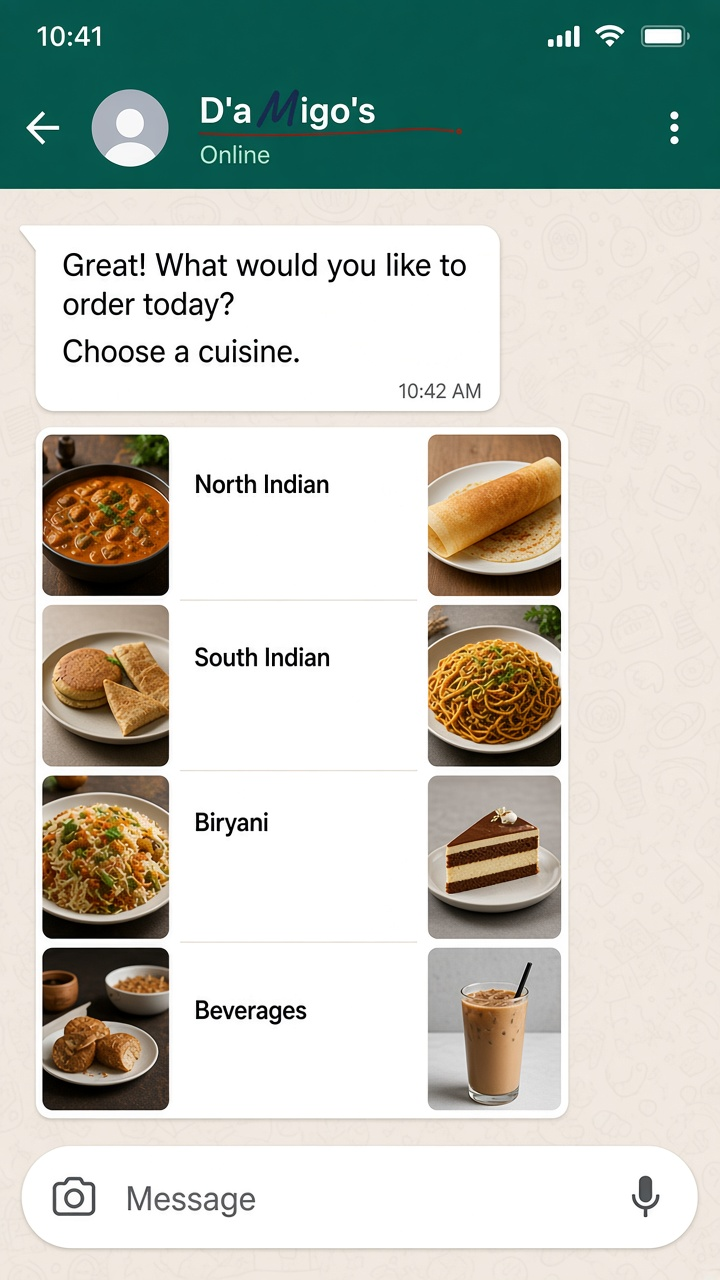
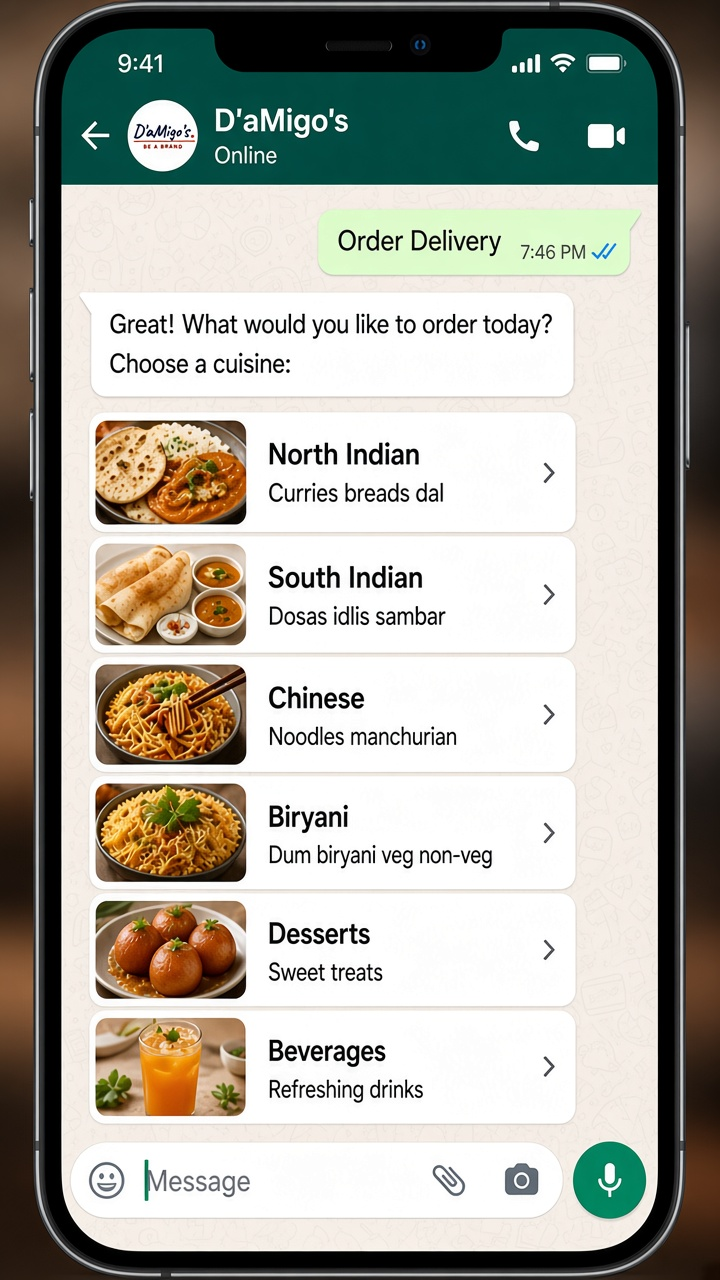
Match headings to D'aMigo's script and replace Hero agent WhatsApp screens.

diff --git a/src/app/layout.tsx b/src/app/layout.tsx
@@ -1,5 +1,5 @@
 import type { Metadata, Viewport } from "next";
-import { Inter, Plus_Jakarta_Sans, Great_Vibes, Pacifico } from "next/font/google";
+import { Inter, Plus_Jakarta_Sans, Great_Vibes } from "next/font/google";
 import "./globals.css";
 import { PageShell } from "@/components/site/PageShell";
 
@@ -14,12 +14,6 @@ const greatVibes = Great_Vibes({
   subsets: ["latin"],
   weight: "400",
   variable: "--font-great-vibes",
-  display: "swap",
-});
-const pacifico = Pacifico({
-  subsets: ["latin"],
-  weight: "400",
-  variable: "--font-pacifico",
   display: "swap",
 });
 
@@ -41,7 +35,7 @@ export const viewport: Viewport = {
 
 export default function RootLayout({ children }: { children: React.ReactNode }) {
   return (
-    <html lang="en" className={`${inter.variable} ${jakarta.variable} ${greatVibes.variable} ${pacifico.variable}`}>
+    <html lang="en" className={`${inter.variable} ${jakarta.variable} ${greatVibes.variable}`}>
       <head>
         <link
           href="https://fonts.googleapis.com/css2?family=Material+Symbols+Outlined:opsz,wght,FILL,GRAD@20..48,100..700,0..1,-50..200&display=swap"

diff --git a/src/app/globals.css b/src/app/globals.css
@@ -21,7 +21,7 @@
   --color-hero-navy-surface: #23345a;
   --color-error: #ba1a1a;
   --font-sans: var(--font-inter), ui-sans-serif, system-ui, sans-serif;
-  --font-headline: var(--font-pacifico), Arial, cursive;
+  --font-headline: var(--font-great-vibes), Arial, cursive;
   --font-cursive: var(--font-great-vibes), Arial, cursive;
 }
 
@@ -56,9 +56,9 @@ main, section, article, figure { min-width: 0; }
   .page-wrap { padding-inline: max(2rem, env(safe-area-inset-left)) max(2rem, env(safe-area-inset-right)); }
 }
 h1, h2, h3, h4, .font-headline {
-  font-family: var(--font-pacifico), Arial, cursive;
+  font-family: var(--font-great-vibes), Arial, cursive;
   font-weight: 400;
-  letter-spacing: 0.01em;
+  letter-spacing: 0.02em;
 }
 a { color: inherit; text-decoration: none; }
 img { max-width: 100%; height: auto; }
